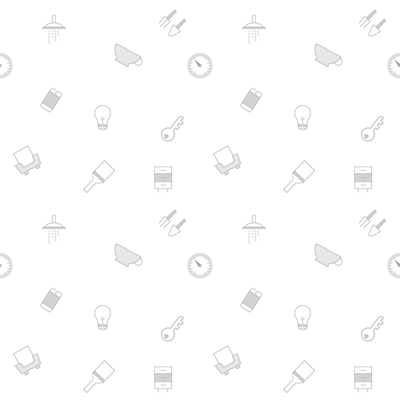
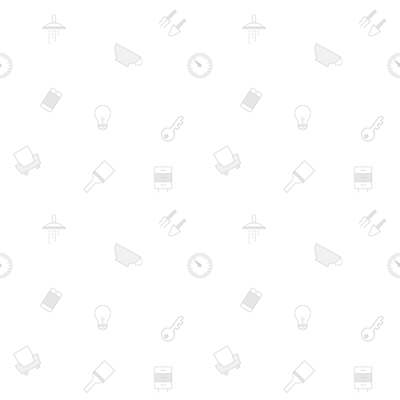
changes made

diff --git a/css/additional.css b/css/additional.css
@@ -1,7 +1,7 @@
 /* Colours blue: #4ABDAC; orange: #FC4A1A yellow: #F7B733 clean: #DFDCE3 logo: #00b9ef logo-two: #009ce6 */
 
 body {
-	background-color: red;
+	background-color: white;
 	background-image: url('/images/doodles.png') !important;
 	background-repeat: repeat-y repeat-x !important;
 }
